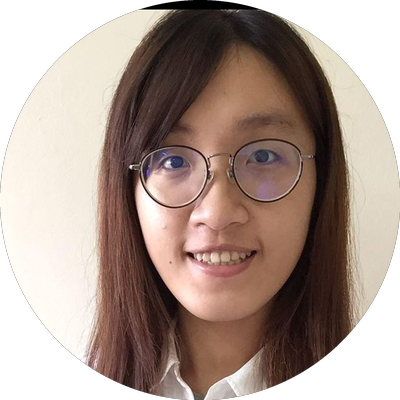
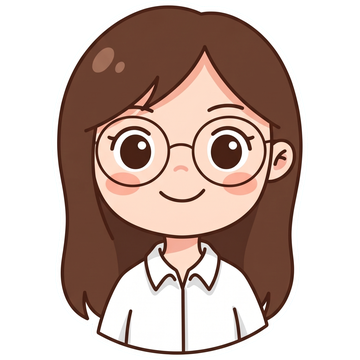
導覽角色改用 Gemini 生成的 Q 版插畫（去背貼圖），比手繪版好看

diff --git a/css/lucy-buddy.css b/css/lucy-buddy.css
@@ -44,29 +44,27 @@
 }
 .lb-bubble .lb-bubble-cta:hover { text-decoration: underline; }
 
-/* 角色本體 — 圓形照片頭像 */
+/* 角色本體 — Q 版貼圖 */
 .lb-avatar {
-    width: 72px;
-    height: 72px;
-    border: 3px solid var(--bg);
-    background: var(--bg);
+    width: 84px;
+    height: 84px;
+    border: none;
+    background: none;
     padding: 0;
     cursor: pointer;
     position: relative;
-    border-radius: 50%;
-    box-shadow: var(--shadow-lg), 0 0 0 1px var(--border);
-    transition: transform .2s, box-shadow .2s;
+    transition: transform .2s;
     animation: lb-bob 3.6s ease-in-out infinite;
-    overflow: hidden;
+    filter: drop-shadow(0 6px 10px rgba(27, 35, 51, .16));
 }
-.lb-avatar:hover { transform: scale(1.07); box-shadow: var(--shadow-lg), 0 0 0 2px var(--blue); }
-.lb-avatar:focus-visible { outline: 3px solid var(--blue); outline-offset: 3px; }
+.lb-avatar:hover { transform: scale(1.07); }
+.lb-avatar:focus-visible { outline: 3px solid var(--blue); outline-offset: 3px; border-radius: 12px; }
 
-.lb-avatar img { width: 100%; height: 100%; object-fit: cover; display: block; }
+.lb-avatar img { width: 100%; height: 100%; object-fit: contain; display: block; }
 
 @keyframes lb-bob {
     0%, 100% { transform: translateY(0); }
-    50% { transform: translateY(-5px); }
+    50% { transform: translateY(-4px); }
 }
 
 .lb-close {
